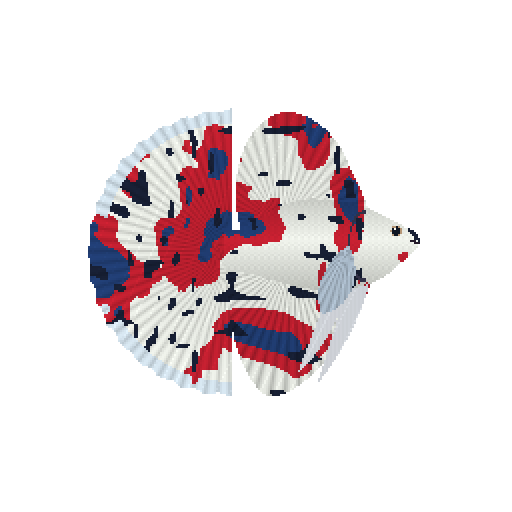
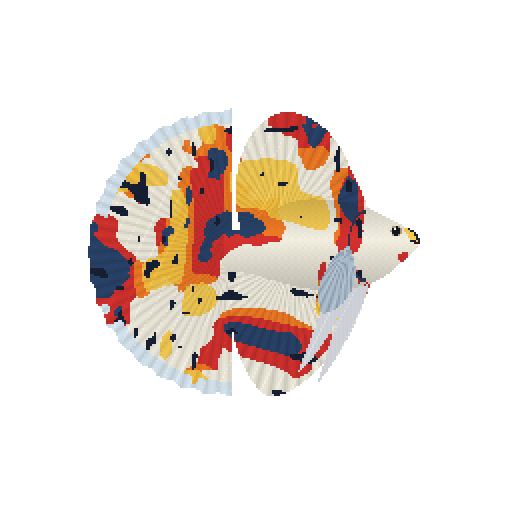
feat: add natural swimming turns and warm gold-orange koi marbling

diff --git a/tests/betta_motion.rs b/tests/betta_motion.rs
@@ -19,7 +19,7 @@ fn poses_wrap_and_opening_is_bounded() {
         );
         let first = betta_pose(0, activity, 0.);
         let last = betta_pose(BETTA_FRAMES - 1, activity, 0.);
-        assert!((first.dx - last.dx).abs() < 0.4 && (first.dy - last.dy).abs() < 0.5);
+        assert!((first.dx - last.dx).abs() < 7. && (first.dy - last.dy).abs() < 0.5);
     }
     assert_eq!(betta_pose(0, BettaActivity::Unknown, f64::NAN).flare, 0.);
     assert_eq!(betta_pose(0, BettaActivity::Unknown, 99.).flare, 1.);
@@ -153,4 +153,68 @@ fn maximum_size_active_flare_and_pond_keep_safe_margins() {
             }
         }
     }
+}
+
+#[test]
+fn swimming_travels_across_the_scene_and_faces_its_direction() {
+    let traits = derive_betta_development(&snapshot()).unwrap();
+    let mut centers = Vec::new();
+    for frame in (0..BETTA_FRAMES).step_by(5) {
+        let pose = betta_pose(frame, BettaActivity::Unknown, 0.);
+        let image = render_betta_frame(&traits, pose);
+        let mut sum = [0_usize; 2];
+        let mut count = 0;
+        for (i, pixel) in image.as_rgba_bytes().chunks_exact(4).enumerate() {
+            if pixel[3] > 0 {
+                sum[0] += i % 256;
+                sum[1] += i / 256;
+                count += 1;
+            }
+        }
+        assert!(
+            count > 500,
+            "fish disappeared while turning at frame {frame}"
+        );
+        centers.push([sum[0] as f64 / count as f64, sum[1] as f64 / count as f64]);
+        let next = betta_pose(frame + 1, BettaActivity::Unknown, 0.);
+        if (next.dx - pose.dx).abs() > 0.5 {
+            assert_eq!(
+                pose.projection.is_sign_positive(),
+                (next.dx - pose.dx).is_sign_positive()
+            );
+        }
+    }
+    let range = |axis| {
+        centers
+            .iter()
+            .map(|c| c[axis])
+            .fold(f64::NEG_INFINITY, f64::max)
+            - centers
+                .iter()
+                .map(|c| c[axis])
+                .fold(f64::INFINITY, f64::min)
+    };
+    assert!(range(0) > 65., "fish is still hovering instead of swimming");
+    assert!(range(1) > 15.);
+}
+
+#[test]
+fn koi_marbling_contains_visible_gold_and_tangerine_patches() {
+    let image = render_betta(&derive_betta_development(&snapshot()).unwrap());
+    let mut gold = 0;
+    let mut orange = 0;
+    for p in image
+        .as_rgba_bytes()
+        .chunks_exact(4)
+        .filter(|p| p[3] == 255)
+    {
+        if p[0] > 160 && p[1] > 125 && p[2] < 110 && f64::from(p[1]) / f64::from(p[0]) > 0.65 {
+            gold += 1;
+        }
+        if p[0] > 180 && (70..155).contains(&p[1]) && p[2] < 70 {
+            orange += 1;
+        }
+    }
+    assert!(gold > 50, "yellow/gold patches are missing: {gold}");
+    assert!(orange > 50, "orange patches are missing: {orange}");
 }

diff --git a/src/betta/marble.rs b/src/betta/marble.rs
@@ -29,14 +29,26 @@ pub(super) fn color(development: &BettaDevelopment, [x, y]: [f64; 2], region: Re
     let white = 0.20 + 0.55 * shares[0];
     let red = 0.20 + 0.55 * shares[1];
     let mut base = if pigment < white {
-        [232., 235., 228.]
+        [233., 229., 215.]
     } else if pigment < white + red {
-        [194., 32., 48.]
+        [205., 48., 45.]
     } else {
-        [33., 62., 116.]
+        [40., 65., 102.]
     };
+    // Warm patches share the coherent marble field: broad gold and tangerine
+    // islands rather than isolated bright pixels. Difficulty still sets the base mix.
+    let warmth = noise(px * 0.038 + 11., py * 0.038 - 7., seed ^ 0xa19f);
+    if pigment >= white && pigment < white + red && warmth > 0.46 {
+        base = if warmth > 0.66 {
+            [239., 187., 63.]
+        } else {
+            [233., 119., 36.]
+        };
+    } else if pigment < white && warmth > 0.67 {
+        base = [238., 198., 82.];
+    }
     // Fine dark islands break large patches without using uncorrelated pixel noise.
-    if noise(px * 0.14, py * 0.14, seed ^ 0x8877) > 0.79 {
+    if noise(px * 0.14, py * 0.14, seed ^ 0x8877) > 0.85 {
         base = [24., 32., 53.];
     }
     let angle = (y - 126.).atan2(x - 113.);
@@ -49,17 +61,17 @@ pub(super) fn color(development: &BettaDevelopment, [x, y]: [f64; 2], region: Re
         Region::Body => {
             let belly = ((y - 118.) / 31.).abs().min(1.);
             let scales = ((x + ((y / 3.).floor() % 2.) * 2.) * 1.55).cos() * (y * 2.1).cos();
-            1.04 - 0.23 * belly + 0.035 * scales
+            1.04 - 0.23 * belly + 0.018 * scales
         }
         Region::Tail => {
             let fold = (angle * 36. + radius * 0.015).cos();
             if radius > 78. && pigment < white + 0.18 {
                 base = [208., 223., 233.];
             }
-            0.80 + 0.17 * fold.abs() + 0.08 * (radius / 86.)
+            0.86 + 0.10 * fold.abs() + 0.05 * (radius / 86.)
         }
-        Region::Dorsal => 0.82 + 0.18 * ((x - 143.).atan2(110. - y) * 26.).cos().abs(),
-        Region::Anal => 0.77 + 0.23 * ((x - 150.).atan2(y - 130.) * 29.).cos().abs(),
+        Region::Dorsal => 0.88 + 0.12 * ((x - 143.).atan2(110. - y) * 26.).cos().abs(),
+        Region::Anal => 0.86 + 0.14 * ((x - 150.).atan2(y - 130.) * 29.).cos().abs(),
         Region::Ventral => {
             base = [218., 222., 228.];
             0.80 + 0.20 * (x * 1.3).cos().abs()

diff --git a/src/betta/render.rs b/src/betta/render.rs
@@ -77,20 +77,31 @@ fn render_pose(development: &BettaDevelopment, pose: Option<super::BettaPose>) -
     let mut pixels = vec![[0; 4]; (FRAME_WIDTH_PIXELS * FRAME_WIDTH_PIXELS) as usize];
     for y in 0..FRAME_WIDTH_PIXELS {
         for x in 0..FRAME_WIDTH_PIXELS {
-            let mut point = [
-                (f64::from(x) + 0.5 - 128.) / scale + 128.,
-                (f64::from(y) + 0.5 - 128.) / scale + 128.,
-            ];
+            let mut point = if let Some(pose) = pose {
+                let x = f64::from(x) + 0.5 - 128. - pose.dx;
+                let y = f64::from(y) + 0.5 - 128. - pose.dy;
+                let (sine, cosine) = pose.pitch.sin_cos();
+                [
+                    (cosine * x + sine * y) / pose.projection / (scale * pose.scene_scale) + 128.,
+                    (-sine * x + cosine * y) / (scale * pose.scene_scale) + 128.,
+                ]
+            } else {
+                [
+                    (f64::from(x) + 0.5 - 128.) / scale + 128.,
+                    (f64::from(y) + 0.5 - 128.) / scale + 128.,
+                ]
+            };
             if let Some(pose) = pose {
-                point[0] -= pose.dx;
-                point[1] -= pose.dy;
-                let lag = ((160. - point[0]) / 130.).clamp(0., 1.);
-                point[1] -= (pose.phase * 2. - lag * 2.5).sin() * lag * 5. * pose.energy;
+                let lag = ((174. - point[0]) / 140.).clamp(0., 1.);
+                let stroke = (pose.phase * 4. - lag * 2.8).sin();
+                point[1] -= stroke * lag.powi(2) * 7. * pose.energy;
             }
             let [px, py] = point;
             let spread = pose.map_or(1., |p| 0.72 + 0.28 * p.flare);
             let flutter = pose.map_or(1., |p| {
-                1. + 0.018 * (p.phase * 3. - px * 0.03).sin() * p.energy
+                1. + (0.03 * (p.phase * 4. - px * 0.045).sin()
+                    + 0.012 * (p.phase * 8. - px * 0.06).sin())
+                    * p.energy
             });
             let fin_point = [px, 126. + (py - 126.) / (spread * flutter)];
             let tail_point = [113. + (px - 113.) / spread, fin_point[1]];

diff --git a/src/betta/motion.rs b/src/betta/motion.rs
@@ -57,10 +57,16 @@ pub struct BettaPose {
     pub energy: f64,
     /// Fin and operculum opening, zero relaxed and one fully flared.
     pub flare: f64,
-    /// Gentle horizontal drift in native pixels.
+    /// Horizontal position on the swimming course, in scene pixels.
     pub dx: f64,
-    /// Gentle vertical drift in native pixels.
+    /// Vertical position on the swimming course, in scene pixels.
     pub dy: f64,
+    /// Signed horizontal foreshortening; negative faces left during the return.
+    pub projection: f64,
+    /// Small bank angle in radians, following the direction of travel.
+    pub pitch: f64,
+    /// Camera scale that leaves room to swim around the scene.
+    pub scene_scale: f64,
 }
 
 /// Derive a loop-closing pose without random state or wall-clock reads.
@@ -71,6 +77,10 @@ pub fn betta_pose(frame: u32, activity: BettaActivity, flare: f64) -> BettaPose 
         BettaActivity::Quiet => 0.4,
         BettaActivity::Unknown => 0.7,
     };
+    // Slight acceleration and gliding, while retaining a seamless periodic course.
+    let course = phase + 0.16 * (phase * 2.).sin();
+    let heading = course.cos();
+    let facing = if heading >= 0. { 1. } else { -1. };
     BettaPose {
         phase,
         energy,
@@ -79,7 +89,11 @@ pub fn betta_pose(frame: u32, activity: BettaActivity, flare: f64) -> BettaPose 
         } else {
             0.
         },
-        dx: 3. * phase.sin() * energy,
-        dy: 2. * (phase * 2.).sin() * energy,
+        dx: 48. * course.sin(),
+        dy: 18. * course.cos(),
+        // Hold a readable side view during the glide, then turn edge-on briefly.
+        projection: facing * heading.abs().powf(0.22).max(0.20),
+        pitch: (-18. * course.sin()).atan2(48. * heading.abs() + 8.) * 0.28 * facing,
+        scene_scale: 0.66,
     }
 }

diff --git a/src/betta/preview.rs b/src/betta/preview.rs
@@ -18,7 +18,7 @@ code,a{{color:#9dd9dc}}small{{color:#bccbd3}}
 <div class="panels"><figure class="dark"><img src="betta.png" alt="Koi-marble Halfmoon male betta on dark background"><figcaption>Dark background</figcaption></figure>
 <figure class="light"><img src="betta.png" alt="The same betta on light background"><figcaption>Light background</figcaption></figure></div>
 <p><strong>{total} unique solves</strong> · {easy} Easy / {medium} Medium / {hard} Hard</p>
-<p>Growth follows unique solves. Easy favors ivory, Medium crimson, Hard indigo.
+<p>Growth follows unique solves. Easy favors ivory and gold, Medium crimson and tangerine, Hard indigo.
 Topic proportions warp the marble patches; these are overlapping tag counts, not a disjoint breakdown.</p>
 <p>Blank-topic or restricted-topic accounts keep identity-based marbling. Calendar availability does not shrink the fish.</p>
 <p><a href="betta.svg">SVG portrait</a> · <a href="traits.json">Visual traits</a></p>

diff --git a/src/betta/export.rs b/src/betta/export.rs
@@ -42,10 +42,14 @@ pub fn animation_files(
     let mut frames = Vec::with_capacity((BETTA_FRAMES * FLARE_LEVELS) as usize);
     for level in 0..FLARE_LEVELS {
         for i in 0..BETTA_FRAMES {
-            let betta = render_betta_frame(
-                &development,
-                betta_pose(i, activity, f64::from(level) / f64::from(FLARE_LEVELS - 1)),
-            );
+            let mut pose = betta_pose(i, activity, f64::from(level) / f64::from(FLARE_LEVELS - 1));
+            if koi.is_some() {
+                // The compositor owns the pond course; preserve a full-size local fish.
+                pose.dx = 0.;
+                pose.dy = 0.;
+                pose.scene_scale = 1.;
+            }
+            let betta = render_betta_frame(&development, pose);
             frames.push(if let Some(koi) = &koi {
                 compose_pond(&betta, &koi[i as usize], i)
             } else {

diff --git a/src/betta/pond.rs b/src/betta/pond.rs
@@ -9,8 +9,21 @@ pub fn compose_pond(betta: &KoiFrame, koi: &KoiFrame, frame: u32) -> KoiFrame {
     let phase = f64::from(frame % BETTA_FRAMES) / f64::from(BETTA_FRAMES) * TAU;
     let mut pixels = vec![[0; 4]; (FRAME_WIDTH_PIXELS * FRAME_WIDTH_PIXELS) as usize];
     // Fixed full-frame bounds have a gap even at maximum growth and movement.
-    paste(&mut pixels, betta, [128. + 30. * phase.sin(), 71.], false);
-    paste(&mut pixels, koi, [128. - 30. * phase.sin(), 188.], true);
+    paste(
+        &mut pixels,
+        betta,
+        [
+            128. + 48. * (phase + 0.16 * (phase * 2.).sin()).sin(),
+            64. + 5. * phase.cos(),
+        ],
+        false,
+    );
+    paste(
+        &mut pixels,
+        koi,
+        [128. - 48. * phase.sin(), 192. - 5. * phase.cos()],
+        true,
+    );
     KoiFrame::from_rgba_pixels(pixels)
 }
 

diff --git a/docs/animation.md b/docs/animation.md
@@ -33,9 +33,12 @@ cargo run --release --locked -- animate-pond target/github.json target/leetcode.
 
 The koi's growth, coat, and chosen behavior still come from its GitHub snapshot.
 The betta's size, difficulty palette, and topic marbling come from LeetCode.
-Each fish swims in its own lane, with opposite lateral courses so the fish stay
-readable without crossing or clipping. The koi's native loop is retimed to the
-shared four-second loop. It is not assigned the betta's activity or growth.
+Each fish swims in its own lane, with opposite curved courses so the fish stay
+readable without crossing or clipping. The betta turns to face its travel rather
+than sliding backward. In betta-only mode it follows a wider oval course, with
+foreshortened turns, gentle banking, and trailing tail and fin waves. The koi's
+native loop is retimed to the shared four-second loop. It is not assigned the
+betta's activity or growth.
 
 This synthetic example has a juvenile GitHub koi because the inherited fixture
 contains few contributions; a mature GitHub profile produces a larger koi:
@@ -59,6 +62,10 @@ colors plus transparency. This approximates colors for GIF export only; the PNG,
 SVG, and website atlas keep full color. The original exact-color GitHub koi
 encoder is unchanged. GIFs swim in a relaxed pose; hover flaring is a website
 feature, not a GIF feature.
+
+The marbling includes ivory, crimson, indigo, tangerine, and gold, with softer
+fin shading. Difficulty influences the base color balance and topics shape
+coherent patches; the warm accents do not invent extra activity metrics.
 
 The sprite atlas is 2560 by 7680 pixels and can be several megabytes. It is
 loaded once by the widget; interaction never calls LeetCode or GitHub. A bundle
@@ -125,8 +132,8 @@ and endpoint streak values are not reinterpreted as current daily streaks.
 Verified November 25, 2026, on Apple Silicon macOS with Rust 1.88 and headless
 Chrome:
 
-- All 132 Rust tests passed in the release profile, including eight new motion
-  and animation-export tests. Formatting, Clippy with warnings denied, release
+- All 134 Rust tests passed in the release profile, including ten new motion and
+  animation-export tests. Formatting, Clippy with warnings denied, release
   build, and API documentation with warnings denied passed.
 - Rust tests cover loop closure, bounds at every flare level, activity fallback,
   atlas layout, escaped widget text, safe lane separation, command usage,

diff --git a/docs/betta.md b/docs/betta.md
@@ -41,14 +41,15 @@ files are not a single filesystem transaction if a write fails halfway through.
 | ------------- | ---------------------------------------------------- |
 | Username      | Stable placement of marble patches, case-insensitive |
 | Unique solves | Logarithmic size growth, capped at 3,000 solves      |
-| Easy share    | More ivory pigment                                   |
-| Medium share  | More crimson pigment                                 |
+| Easy share    | More ivory pigment, with gold accents                |
+| Medium share  | More crimson pigment, with tangerine accents         |
 | Hard share    | More indigo pigment                                  |
 | Topic mix     | Smooth directional warping of marble patch shapes    |
 | No topic data | Identity-based marbling remains available            |
 
-All three pigments keep a baseline presence so the fish stays recognizably koi
-marbled. Difficulty shares influence the palette; they are not exact measured
+Ivory, crimson, and indigo keep a baseline presence so the fish stays
+recognizably koi marbled, with coherent gold and tangerine patches adding
+warmth. Difficulty shares influence the palette; they are not exact measured
 pixel-area percentages. A confirmed zero-solve account has a neutral starter
 palette. Every growth stage retains Halfmoon fins; the minimum linear scale is
 64% of the mature portrait. Growth never rerolls the username's identity seed.
